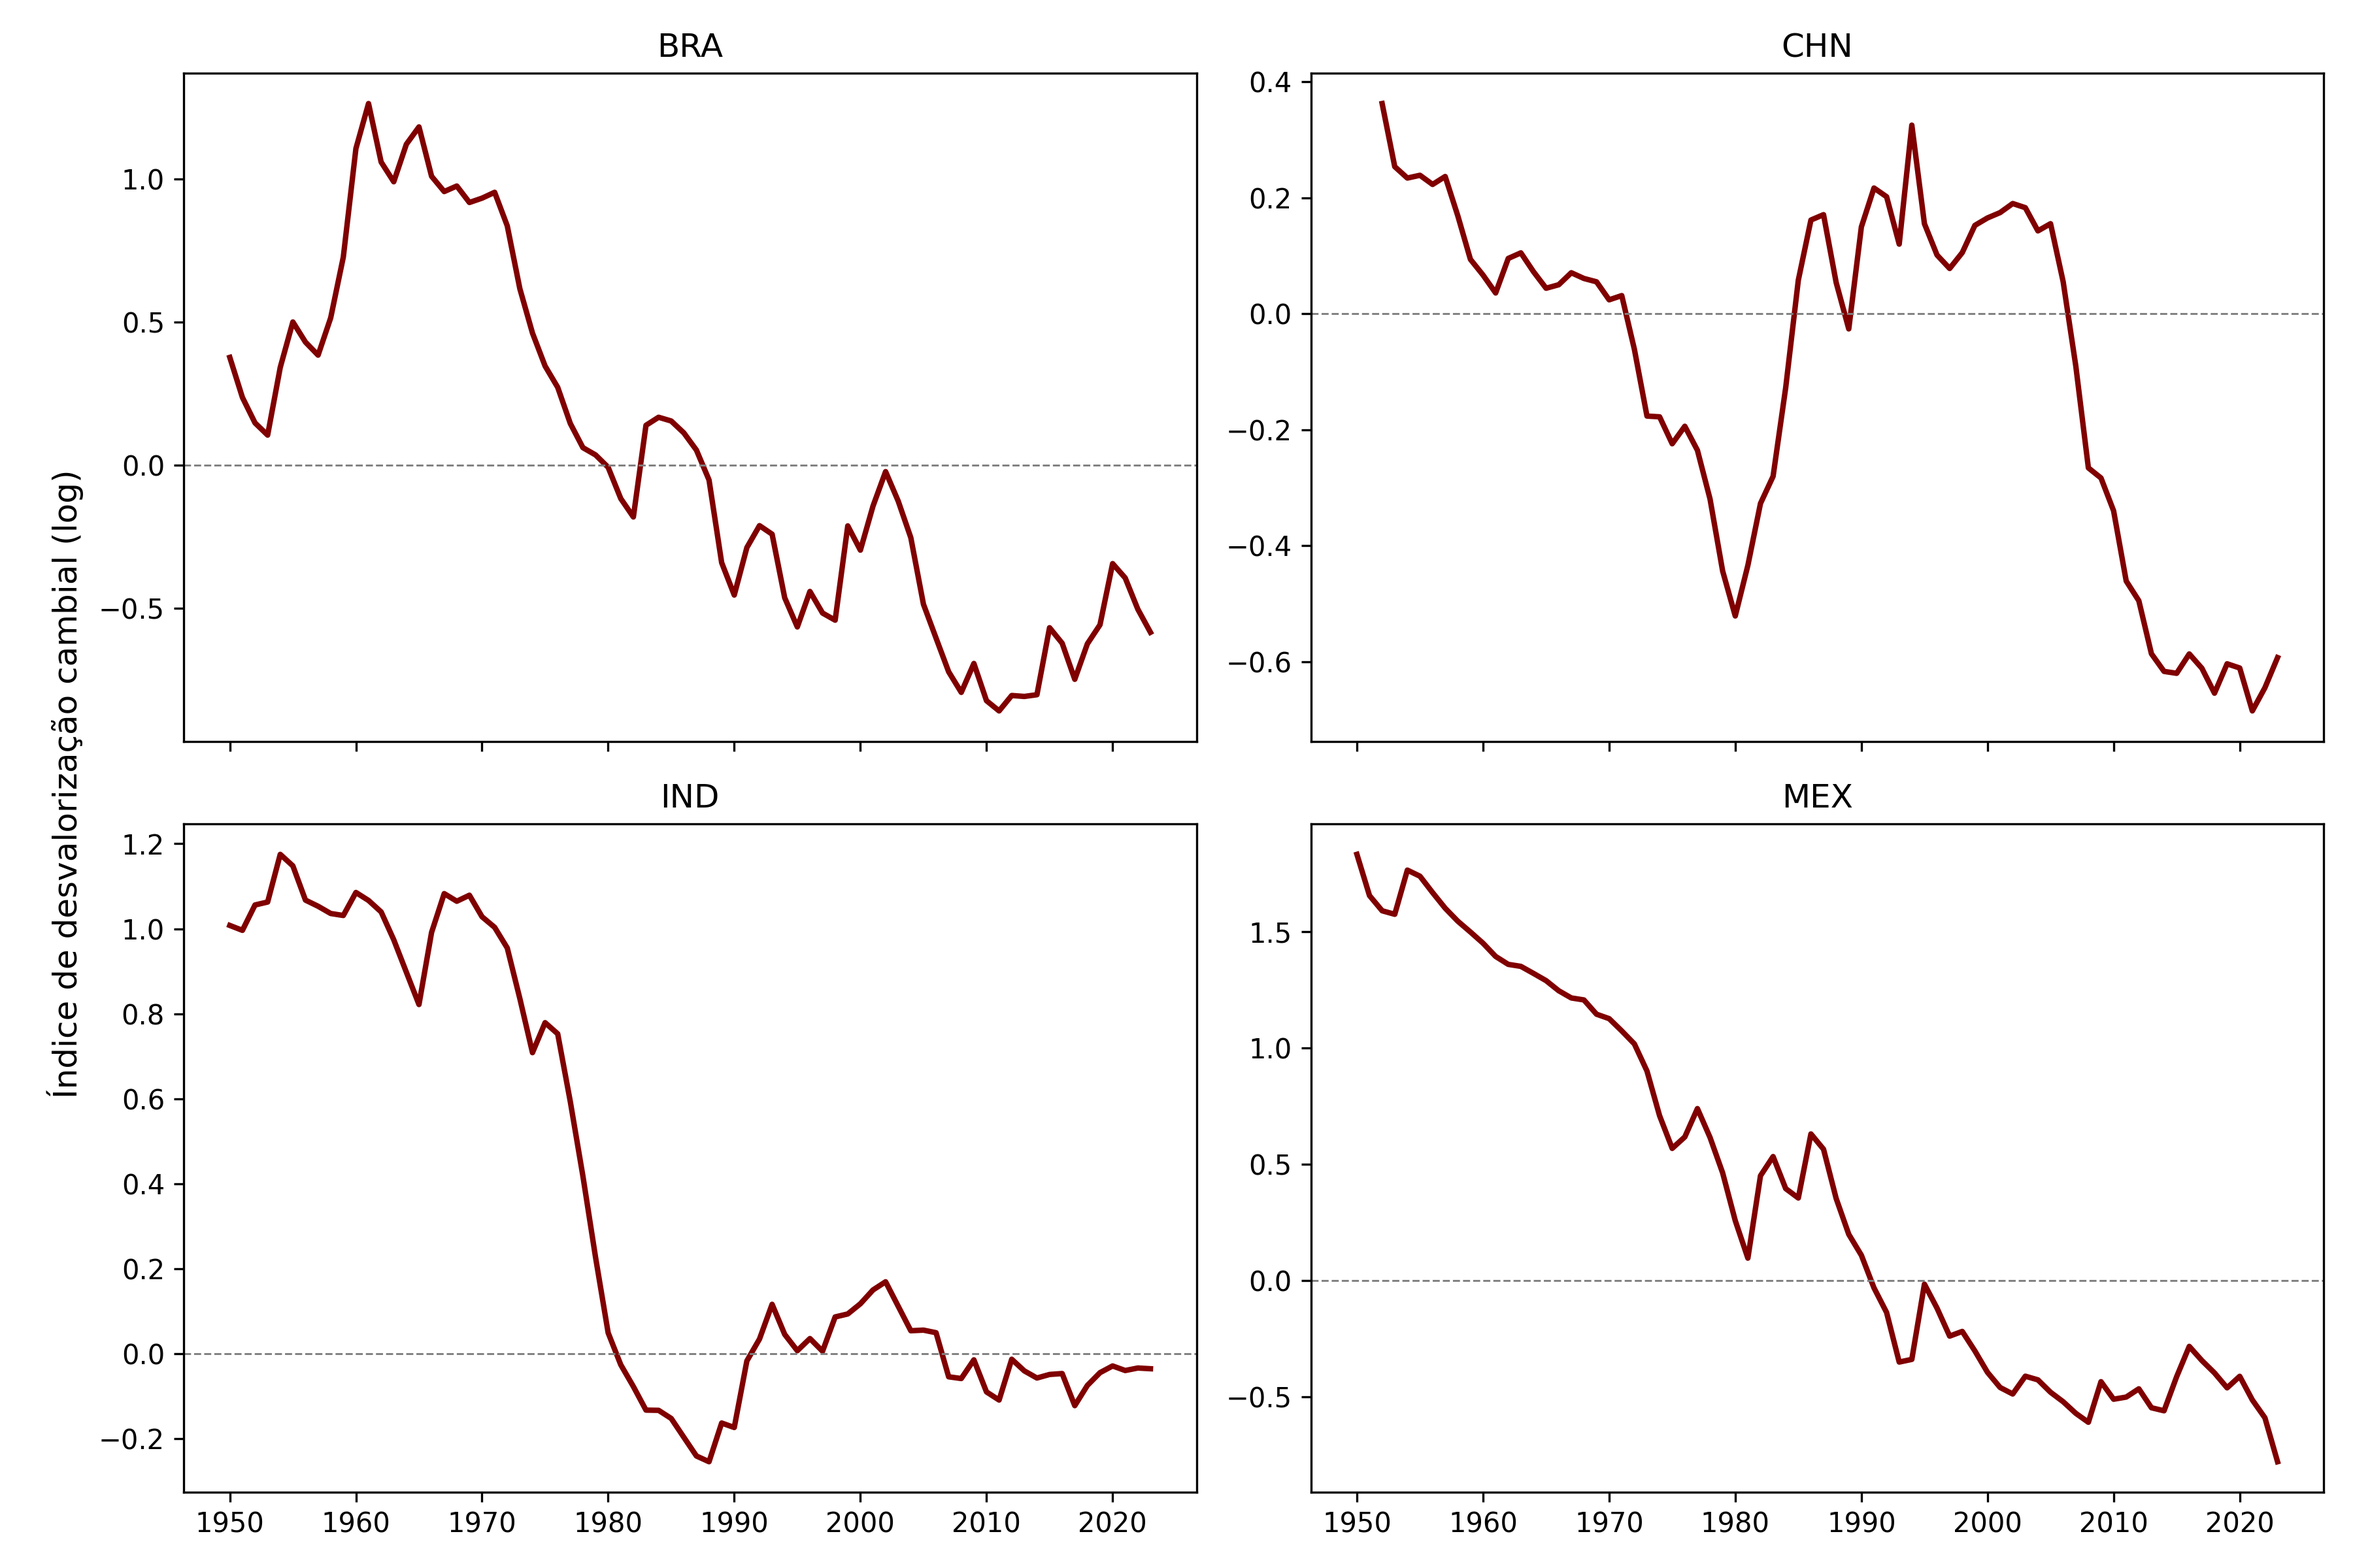
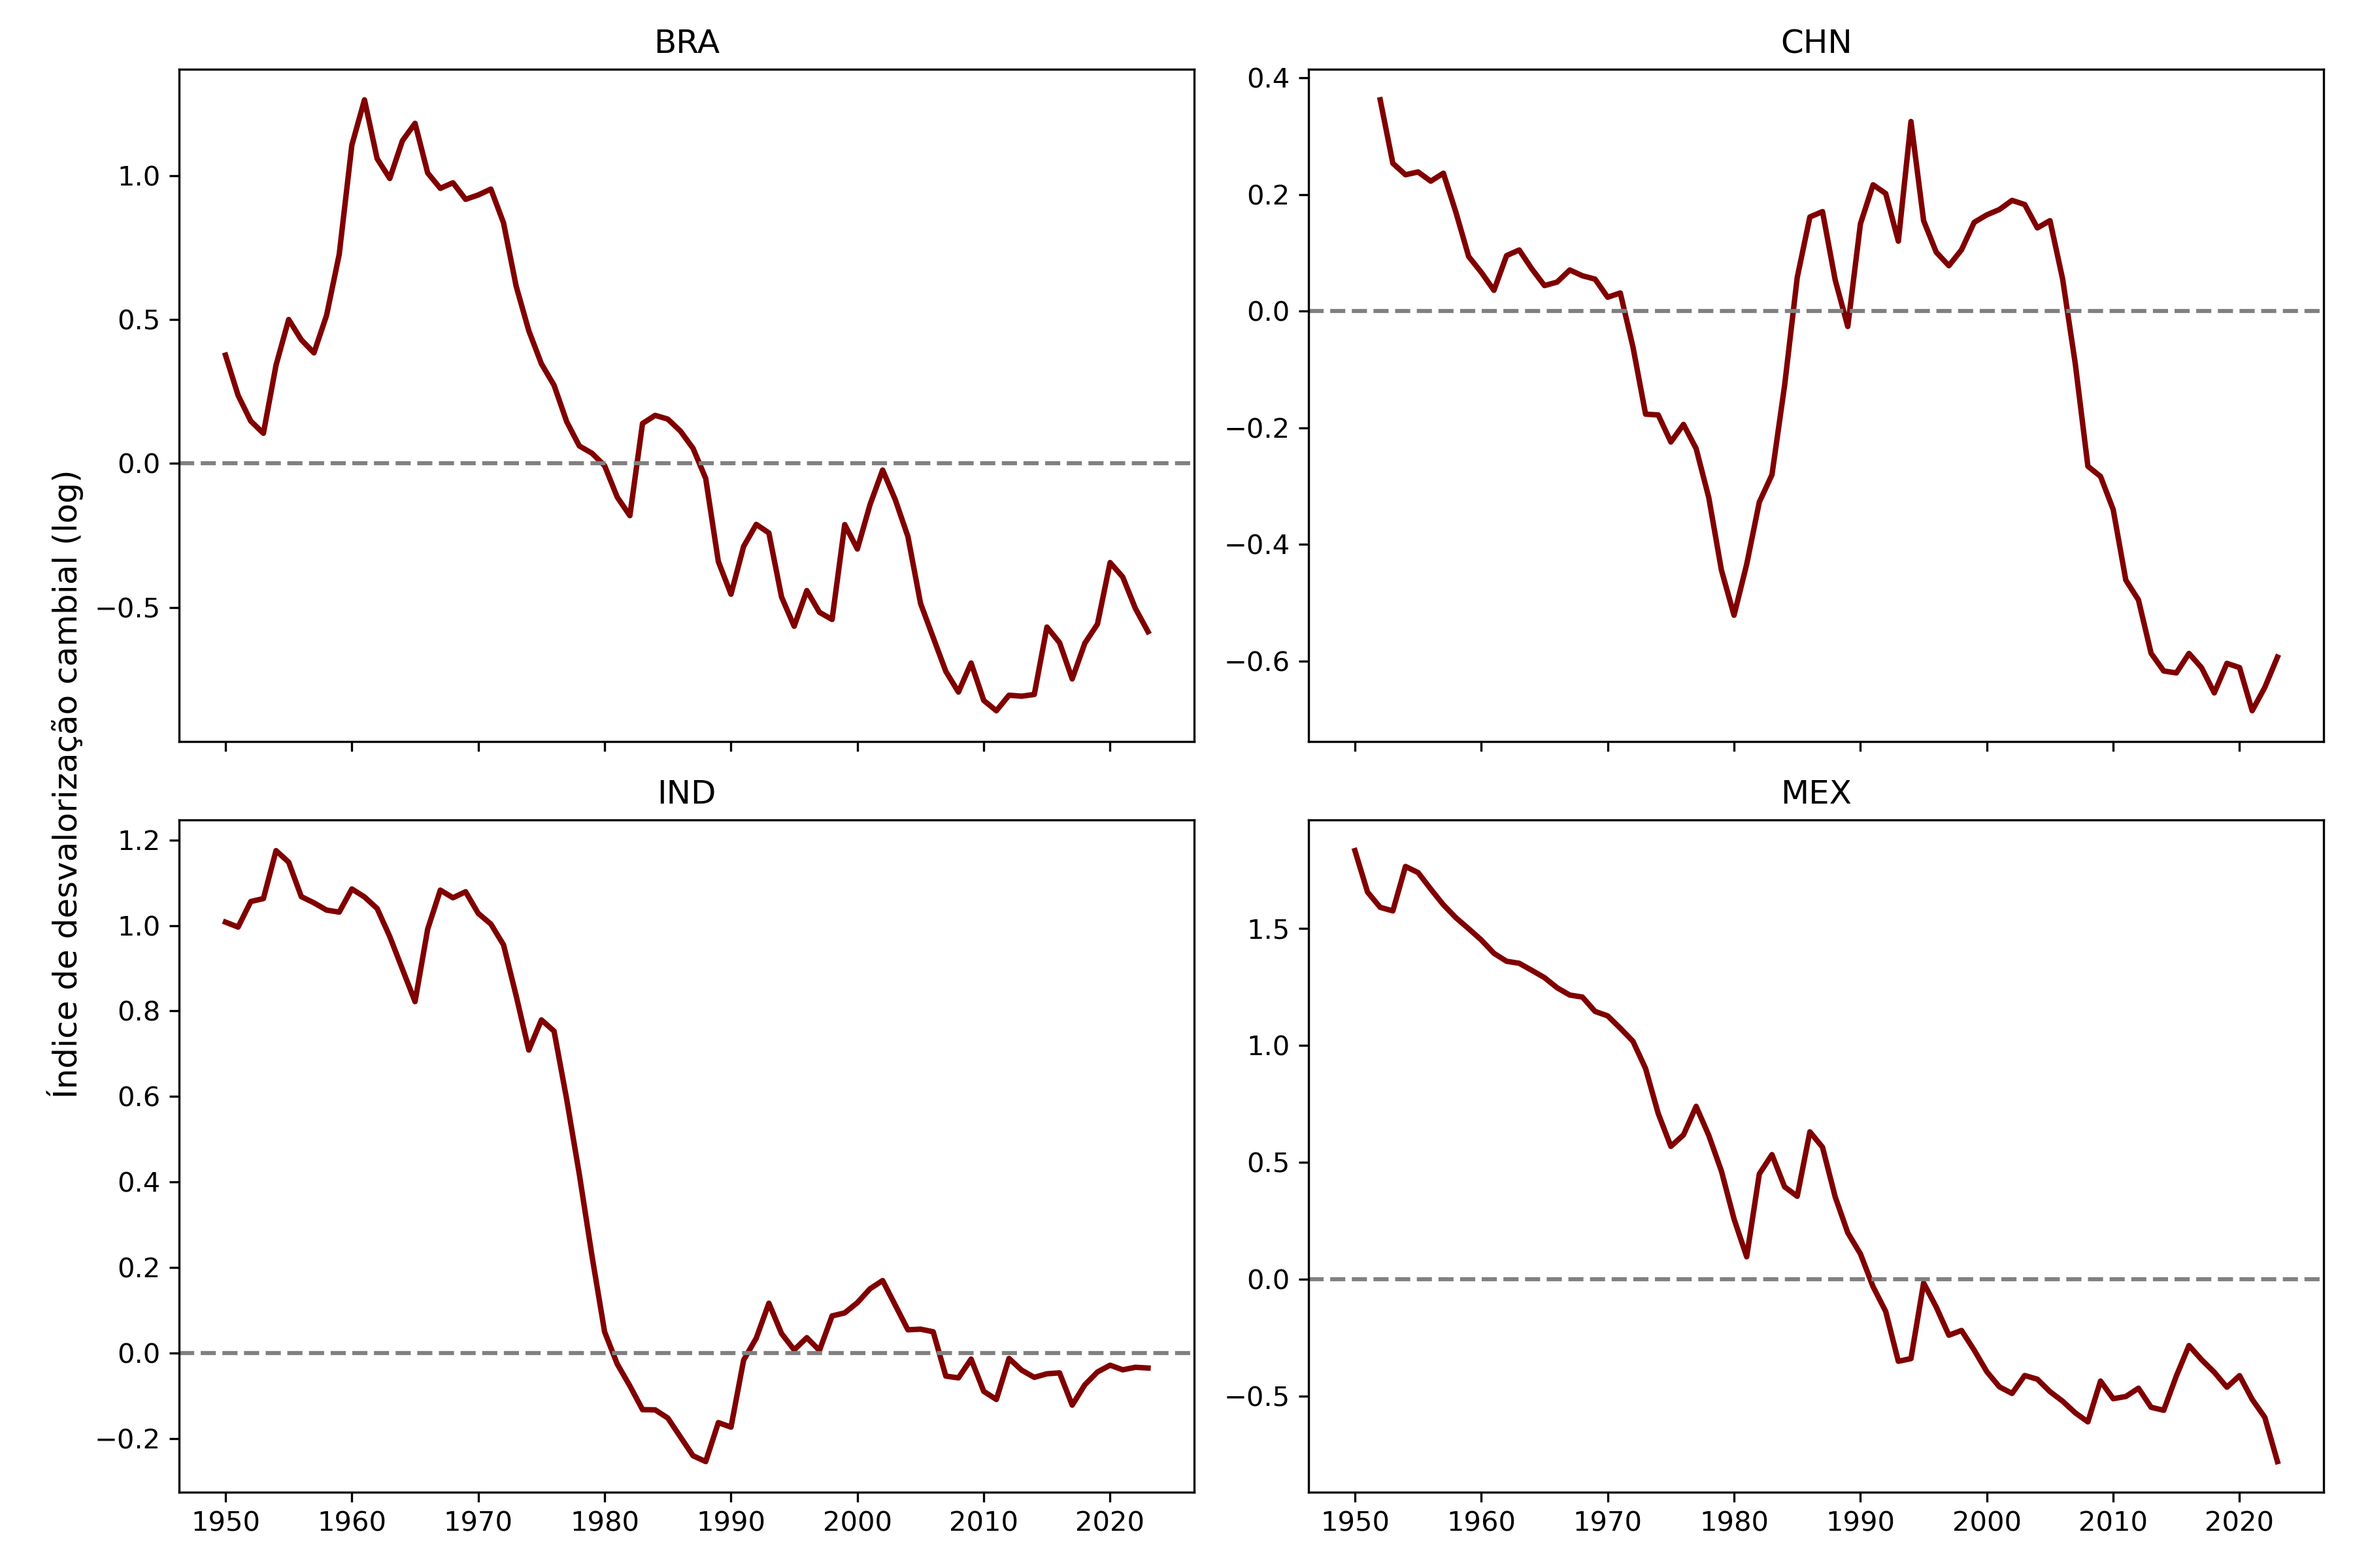
Regressão estilo Rodrik

diff --git a/reports/rer_growth.py b/reports/rer_growth.py
@@ -6,7 +6,6 @@
 # Data: 29-04-2026
 # Fonte: PWT 11.0
 # -------------------------------------------
-
 import polars as pl
 import statsmodels.api as sm
 import matplotlib.pyplot as plt
@@ -22,6 +21,10 @@ figures = project_root / 'reports/figures'
 
 # ---------- Carregando dados
 pwt = pl.read_csv(data_interim / 'underval_index.csv')
+
+##########################################
+# FIGURAS
+##########################################
 
 # ---------- Construindo as visualizações
 countries = ["BRA", "CHN", "IND", "MEX"]
@@ -47,7 +50,7 @@ axs[1, 1].plot(df["year"], df["ln_underval"],
 
 for ax in axs.flat:
     ax.set_title(f"{ax.get_lines()[0].get_label()}")
-    ax.axhline(0, linestyle='--', linewidth=0.7, color='gray')
+    ax.axhline(0, linestyle='--', color='gray')
 
 fig.supylabel("Índice de desvalorização cambial (log)")
 
@@ -56,3 +59,22 @@ plt.show()
 
 # ---------- Salvando as visualizações
 fig.savefig(figures / 'underval_examples.png', dpi=300)
+
+##########################################
+# REGRESSÃO ESTILO RODRIK (2008)
+##########################################
+pwt = pwt.with_columns(
+    (pl.col('ln_gdppc').shift(1).over('iso3')).alias('ln_gdppc_lag')
+)
+
+pwt_pandas = pwt.to_pandas().set_index(["iso3", "year"])
+
+X = pwt_pandas[["ln_gdppc_lag", "ln_underval"]]
+y = pwt_pandas["gdppc_growth"]
+
+model = PanelOLS(y, X, entity_effects=True, time_effects=True)
+res = model.fit(cov_type='clustered', cluster_entity=True)
+
+# ln_gdppc_lag = -0,031*** em Rodrik (2008) com PWT 6.2
+# ln_underval = 0,017*** em Rodrik (2008) com PWT 6.2
+print(res.summary)
